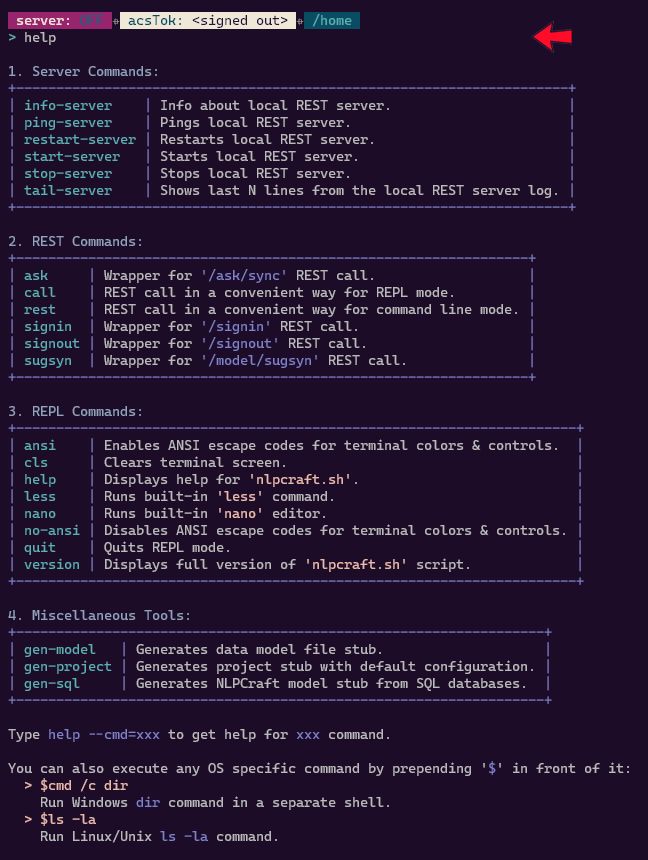
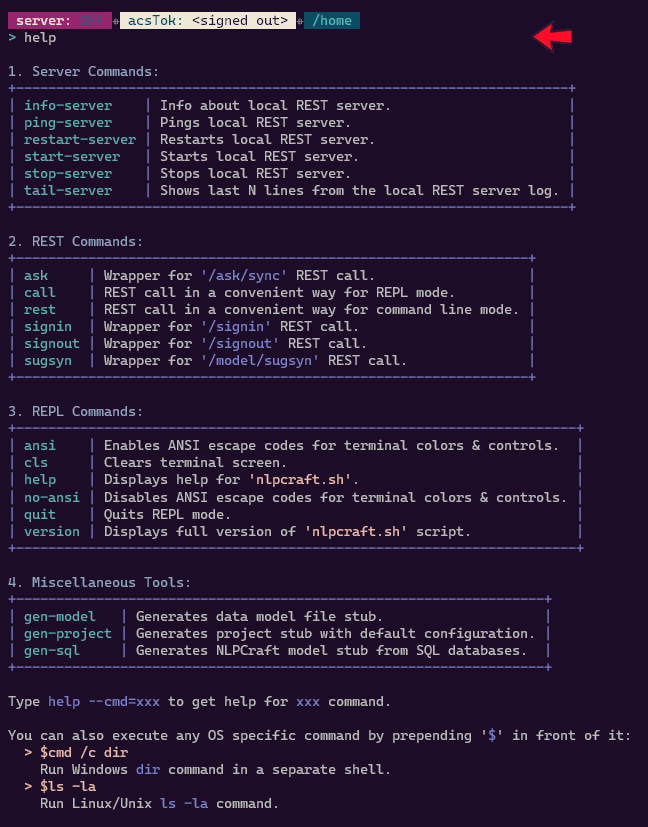
WIP.

diff --git a/tools/script.html b/tools/script.html
@@ -131,9 +131,6 @@ id: script
                     can be executed in the command like mode - they make most sense in REPL mode (except for <code>help</code> command). When running <code>help</code>
                     command the list of REPL commands is available under <b>REPL Commands</b> heading.
                 </p>
-                <p>
-                    Note that <code>nano</code> command may not be available on all OS.
-                </p>
             </li>
             <li>
                 <b>Miscellaneous Tools:</b>
